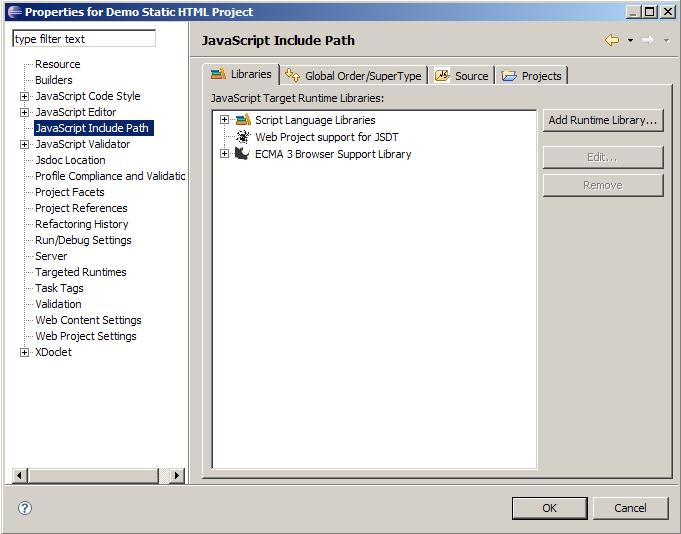
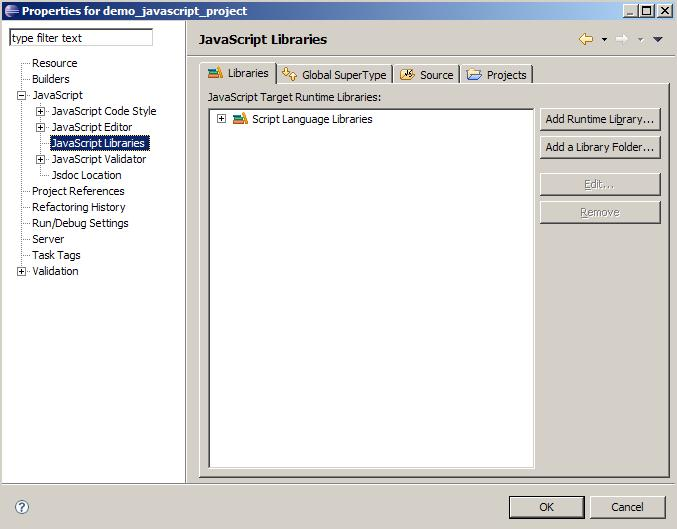
updated screen caps after ui changes.

Changed region(s): [[0.0, 0.0, 1.0, 1.0]]

diff --git a/docs/org.eclipse.wst.jsdt.doc/advanced/global/source.html b/docs/org.eclipse.wst.jsdt.doc/advanced/global/source.html
@@ -17,7 +17,7 @@
 		JavaScript source files (and sub folders) within a source folder is added to a projects Global Scope.  By default the root folder of a JavaScript project is a source folder.  So for most instances no source folder configuration is necisary.<br><br>
 		For HTML projects there are no source folder by default.  HTML files have their own Global Scope that's a combination of libraries from the project and any source files included through HTML using <b>&lt;script src='...'&gt;</b> tag <sup>1</sup>. 
 		<br><br>
-		Source folders are modified in the <b>JavaScript Include Path</b> properties page on the Source Folder tab. (see <b><small><a href="#figure1">Figure 1</a></small></b>).<br><br>
+		Source folders are modified in the <b>JavaScript Libraries</b> properties page on the Source Folder tab. (see <b><small><a href="#figure1">Figure 1</a></small></b>).<br><br>
 		<center><img src="./img/s1.jpg"><br><small><b><a name="figure1">Figure 1.</a> JavaScript Source Configuration</b></small></center>
 		<br>
 		

diff --git a/docs/org.eclipse.wst.jsdt.doc/advanced/global/add.html b/docs/org.eclipse.wst.jsdt.doc/advanced/global/add.html
@@ -29,7 +29,7 @@
 			
 			<tr>
 				<td colspan="2">
-					<br><b>2.</b> Select the <b><i>JavaScript Include Path</i></b> properties page in the left navigation bar.  Then click the <b><i>Add Runtime Library</i></b> to bring up the Libraries Selection dialog.
+					<br><b>2.</b> Expand the <b><i>JavaScript</i></b> properties page in the left navigation bar and select the <b><i>JavaScript Libraries page</i></b>.  Then click the <b><i>Add Runtime Library</i></b> to bring up the Libraries Selection dialog.
 				</td>
 			</tr>
 			<tr>
@@ -59,7 +59,7 @@
 			
 			<tr>
 				<td colspan="2">
-					<br><b>5.</b> Finally, click <b><i>OK</i></b> to close the <b><i>JavaScript Include Path</i></b>  page. <!-- <br>(The other fields are optional for more advanced project configurations.)-->
+					<br><b>5.</b> Finally, click <b><i>OK</i></b> to close the <b><i>JavaScript Libraries</i></b>  page. <!-- <br>(The other fields are optional for more advanced project configurations.)-->
 				</td>
 			</tr>
 			<tr>

diff --git a/docs/org.eclipse.wst.jsdt.doc/advanced/global/remove.html b/docs/org.eclipse.wst.jsdt.doc/advanced/global/remove.html
@@ -34,7 +34,7 @@
 			</tr>
 			<tr>
 				<td>&nbsp;</td>
-				<td><br><img src="./img/add/r3.jpg"></td>
+				<td><br><img src="./img/add/5.jpg"></td>
 			</tr>
 			
 			<tr>
